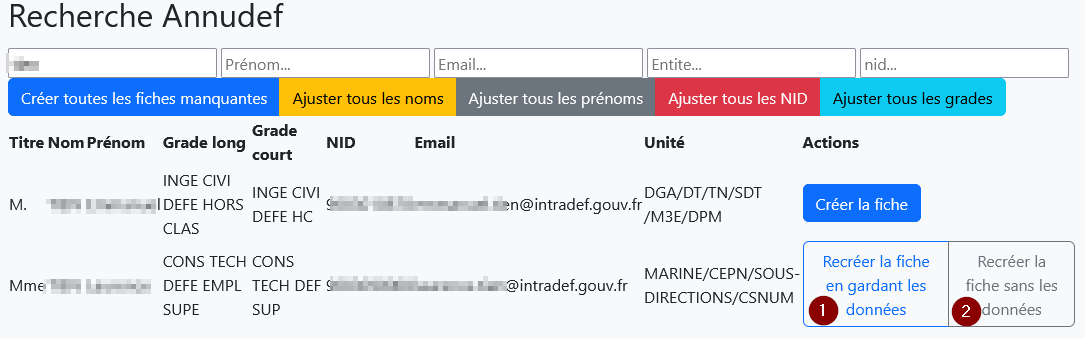
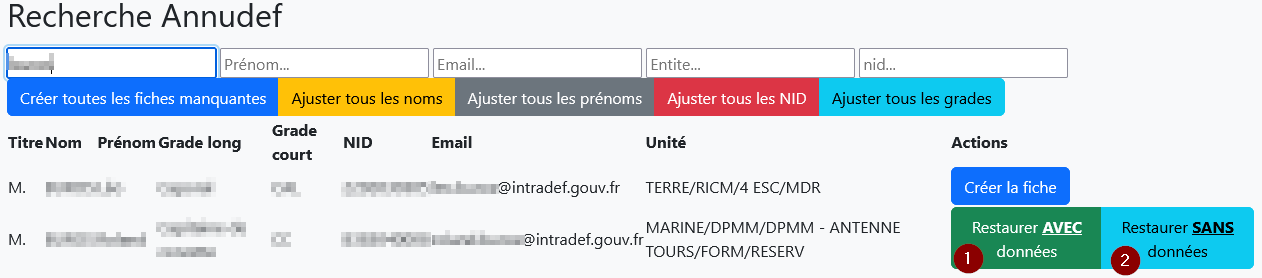
evolution de la doc

diff --git a/resources/docs/1.0/administration.md b/resources/docs/1.0/administration.md
@@ -126,15 +126,13 @@ Si le marin est en cours d'archivage (supprimé des affichages mais pas de la BD
 
 <a name="archivage">
 ## Archivage
-Cet écran va permettre d'archiver les marins. Vous y retrouvez : 
-- les marins pour lesquels la date de débarquement a été renseignée. 
-- les marins supprimés dans le menu "Fiches des marins".
+Cet écran va permettre d'archiver les marins. Vous y retrouvez les marins supprimés dans le menu "Fiches des marins".
 
 <img src="{{ url(asset('docs/images/' . env('DOC_VERSION') . '/administration/archivage.png' )) }}" width=1000px>
 
-Le bouton "Restaurer" (1) permet de rendre un utilisateur visible s'il a été supprimé dans l'écran "Fiches des marins".
-Le bouton "Télécharger livret" (2) permet d'obtenir le livret du marin au format pdf pour une sauvegarde en local.
-Le bouton "Archivage" (3) supprime l'utilisateur de la visualisation dans l'application. Son livret de transformation est sauvegardé sur le serveur et ses données enregistrées pour établir des statistiques. Il faudra recréer/rouvrir son compte si vous voulez le faire réapparaitre dans vos listes.
+Le bouton "Restaurer AVEC données" (1) permet de recréer la fiche du marin en conservant toutes les données liées à sa transformation. Le bouton "Restaurer SANS données" (2) permet de recréer la fiche du marin en supprimant toutes les données liées à sa transformation.
+Le bouton "Télécharger livret" (3) permet d'obtenir le livret du marin au format pdf pour une sauvegarde en local.
+Le bouton "Archivage" (4) supprime le marin de l'application. Son livret de transformation est sauvegardé sur le serveur et ses données enregistrées pour établir des statistiques. Il faudra restaurer son compte avec les menus annudef ou mindefconnect si vous voulez le faire réapparaitre dans vos listes.
 
 <a name="mails">
 ## Mails
